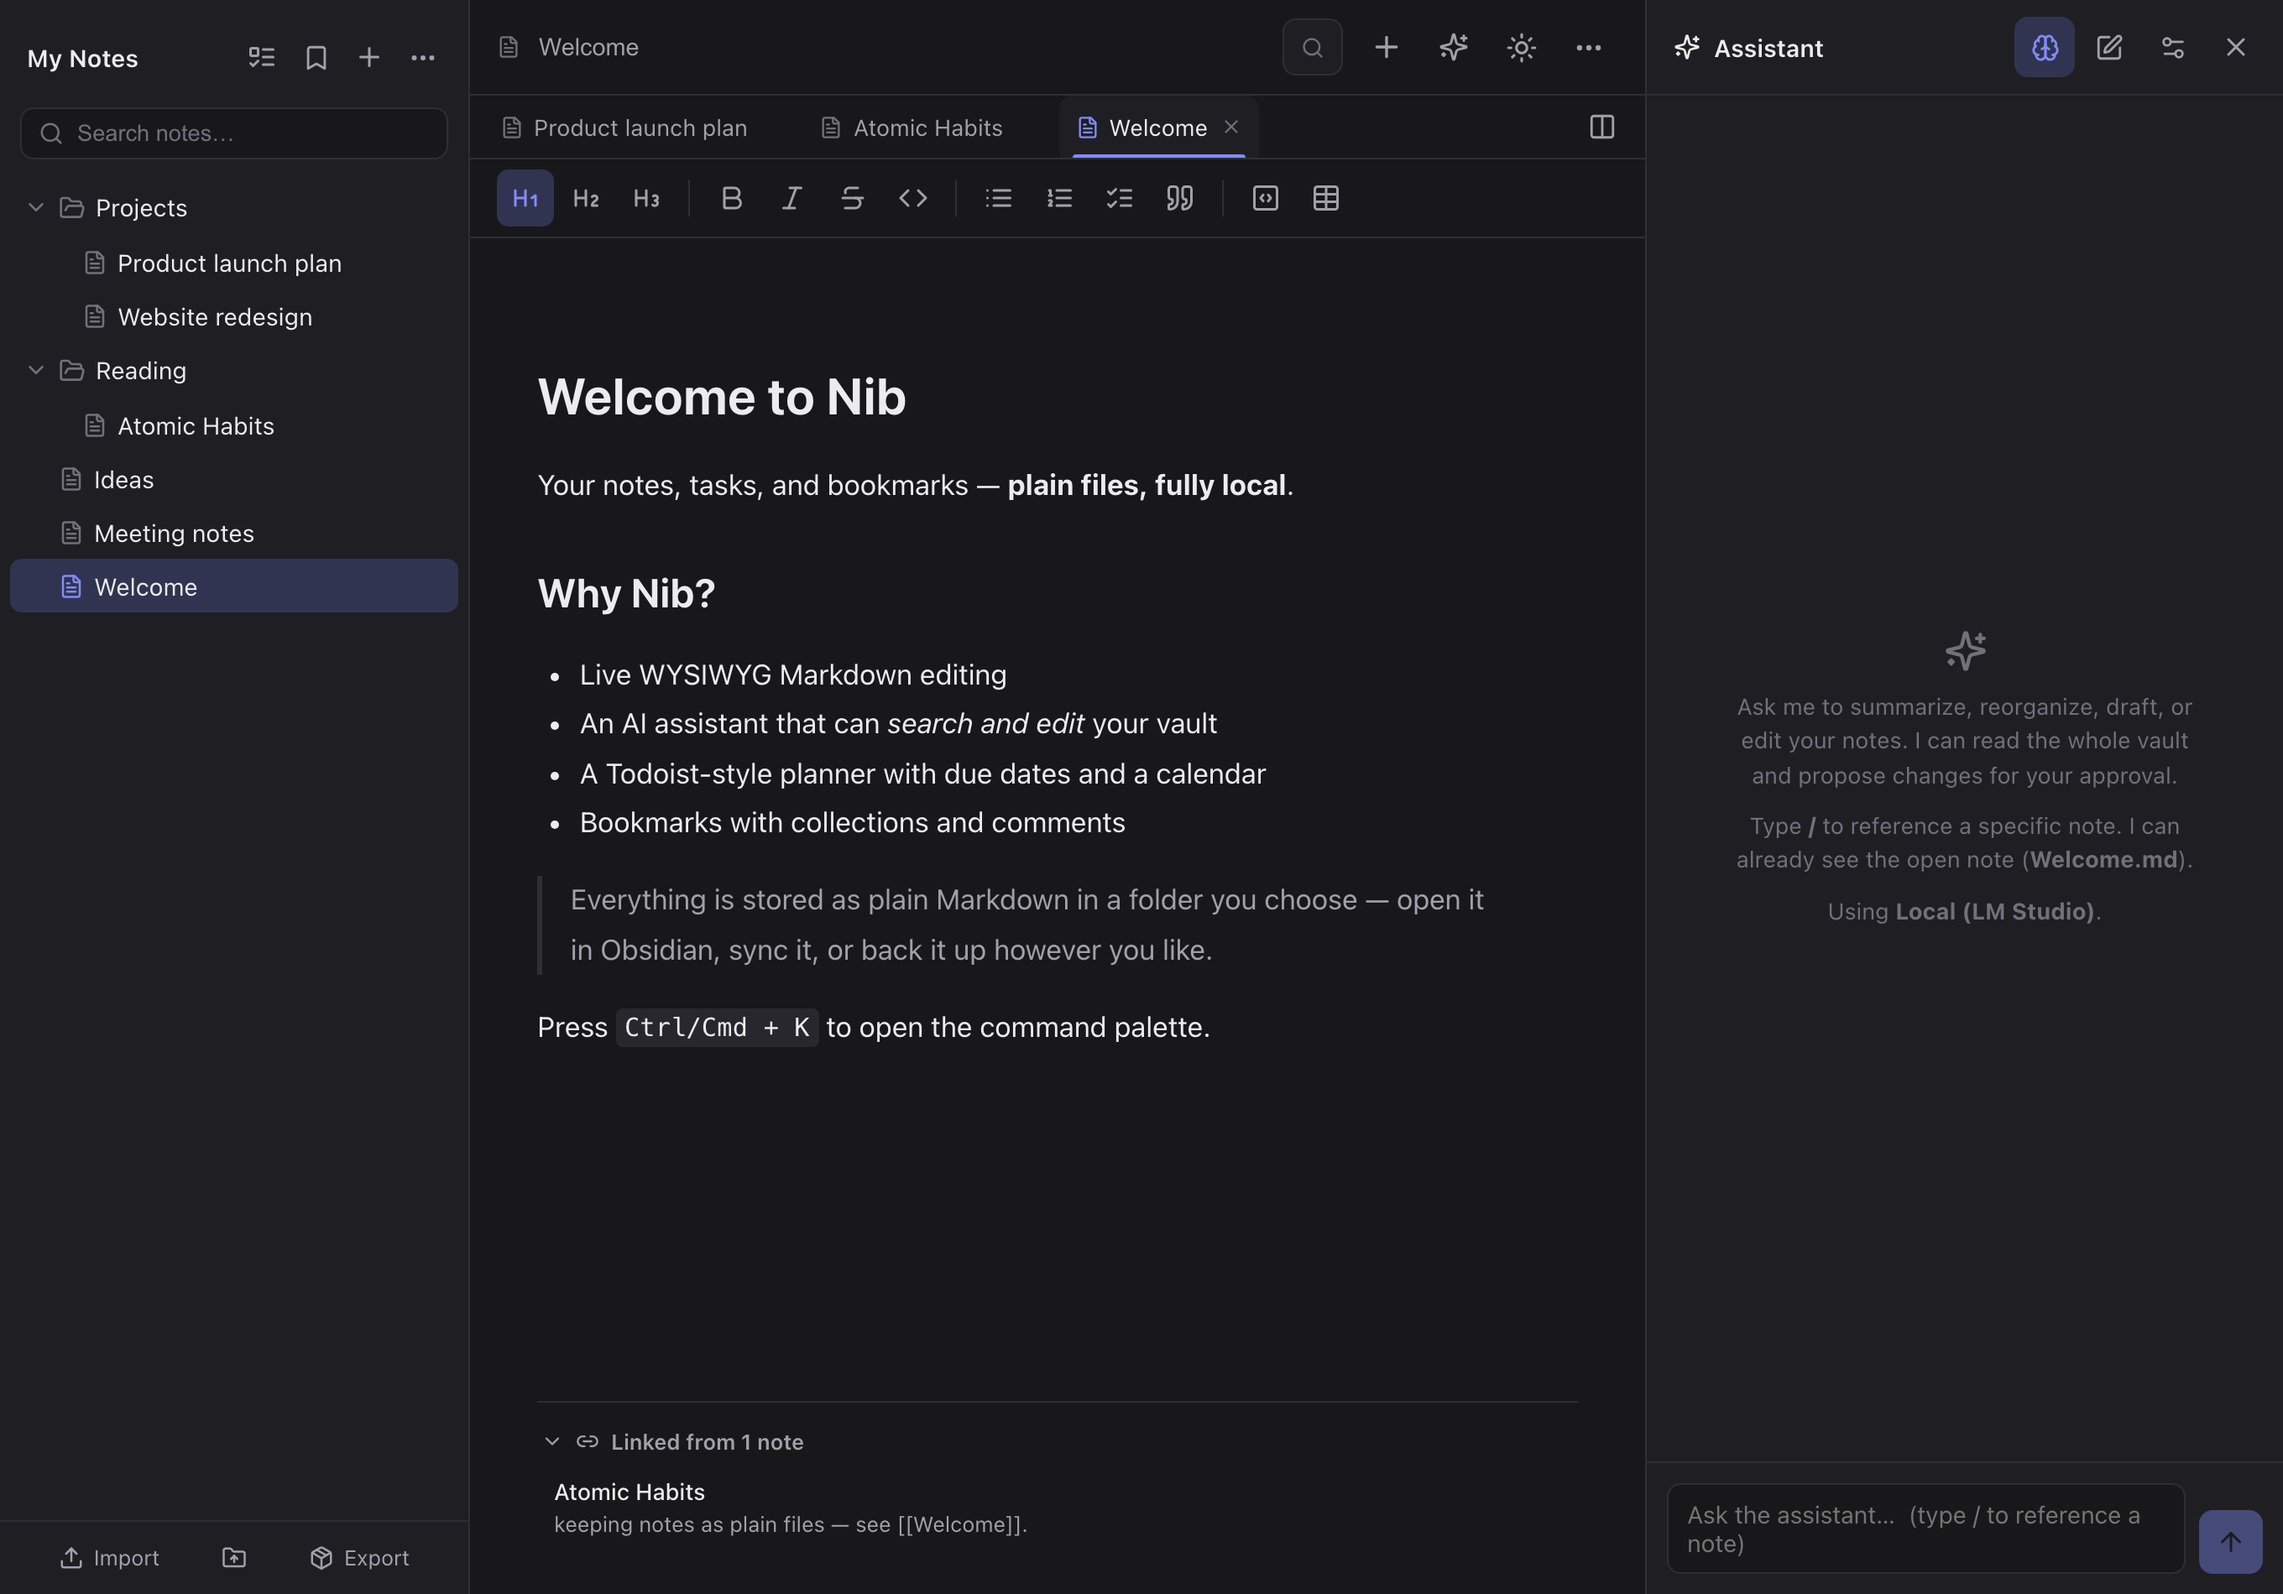
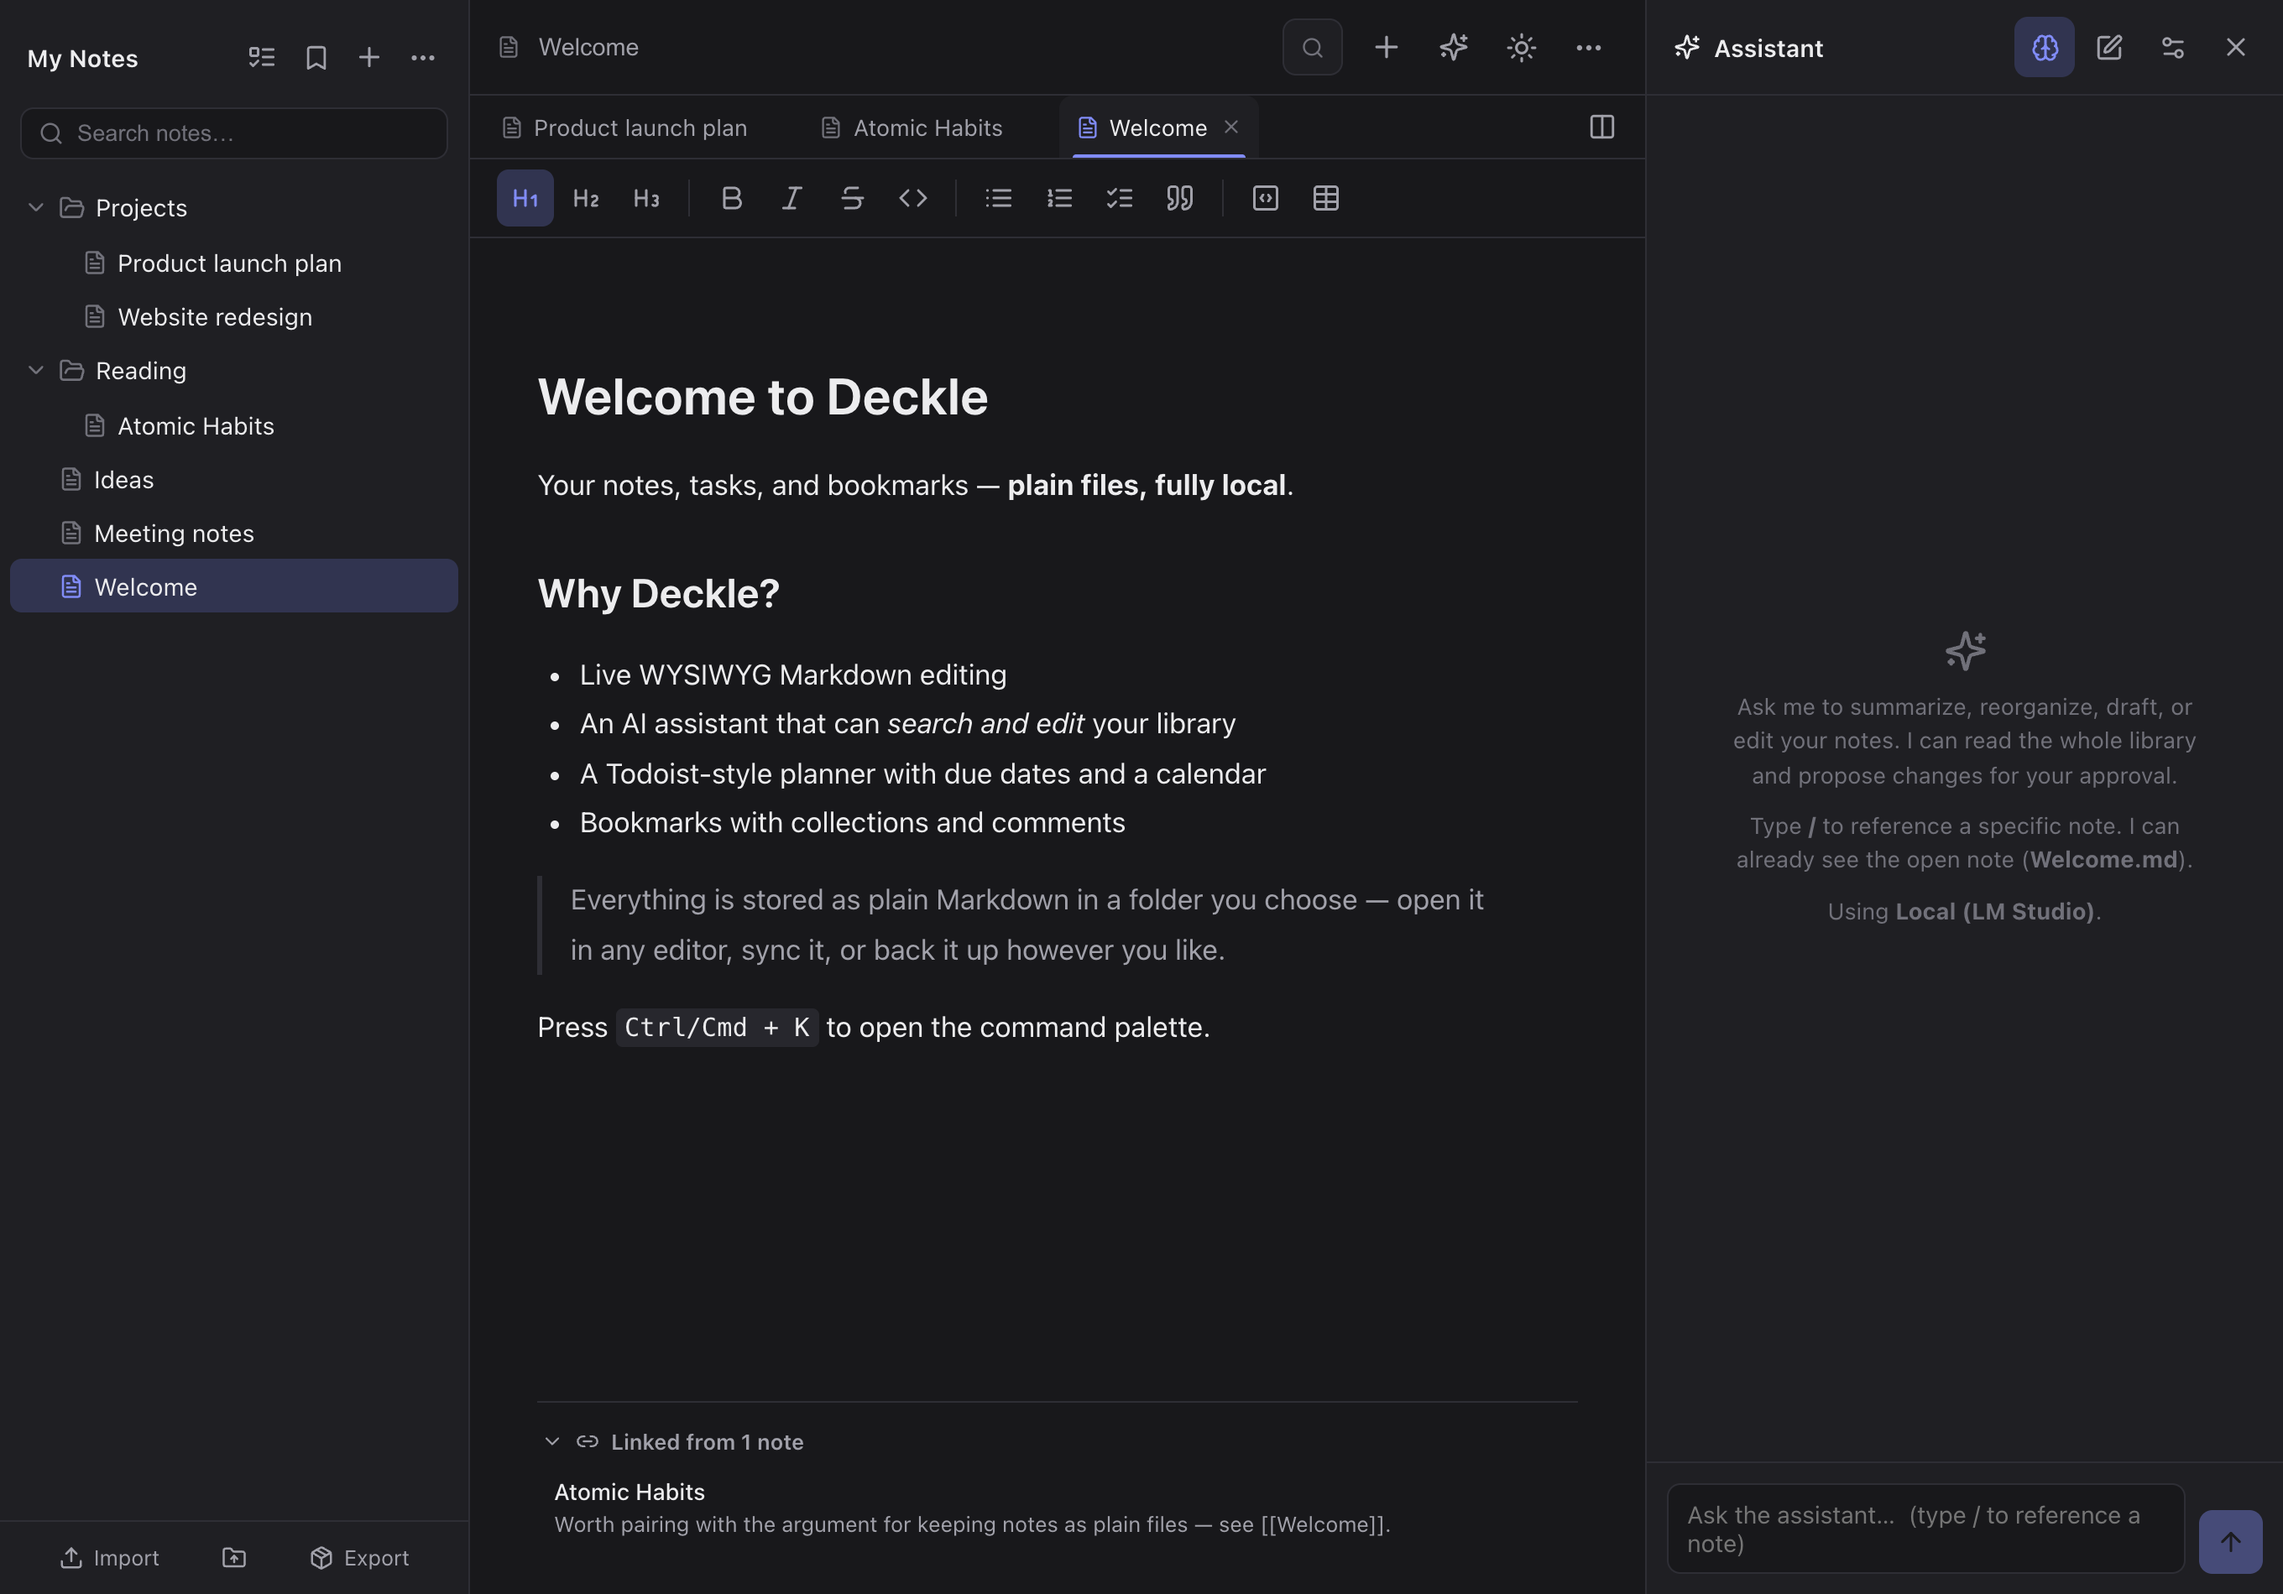
Draw Deckle a mark, and rebuild the screenshots around it
The favicon was still a pen nib — renaming the file did not redraw it, so
the app shipped a picture of the name it no longer has. The mark is now a
sheet of handmade paper with both sides left deckled: three bites down
the right, one long swell up the left. The uneven count is deliberate.
Matched lobes read as a machined spool, and fine teeth blur into a plain
square at 16px, so the teeth are few and deep instead. Checked at 16, 24,
40 and 110px, light and dark.

The screenshots showed "Welcome to Nib", "your vault" and Obsidian, since
the chrome is unbranded and all the naming lived in the demo content. That
content existed only in a library on one machine, which had already gone —
so the shots could not be retaken, only rebuilt.

So they are reproducible now. make-demo-library.mjs writes the notes,
tasks and bookmarks, with every date relative to today so the planner and
the calendar always look current, and capture.mjs drives a real browser
through the five states. It shoots against the server library backend
because the disk backend opens a native folder picker no script can drive.

Three things the captures needed that were not obvious:

- Park the cursor in a corner before each shot. Tree rows grow rename and
  delete icons on hover, and the cursor sits wherever the last click left
  it.
- Close the side panel with its own close button. Clicking the sidebar's
  Tasks icon only switches the panel back to the tasks tab, leaving it
  open behind the command palette.
[…]

diff --git a/src/components/LibraryGate.tsx b/src/components/LibraryGate.tsx
@@ -32,9 +32,10 @@ interface Props {
 }
 
 /**
- * The deckle, inlined so it takes the palette's ink through `currentColor`.
- * `public/deckle.svg` stays as it is — it is the favicon, and a favicon has no
- * document to inherit a colour from.
+ * The mark: a sheet of handmade paper whose right edge was never trimmed — a
+ * deckle edge. Inlined so it takes the palette's ink through `currentColor`.
+ * `public/deckle.svg` carries the same path with the accent hard-coded, because
+ * a favicon has no document to inherit a colour from; keep the two in step.
  */
 function DeckleMark({ size = 40 }: { size?: number }) {
   return (
@@ -46,10 +47,7 @@ function DeckleMark({ size = 40 }: { size?: number }) {
       fill="currentColor"
       aria-hidden="true"
     >
-      <path
-        fillRule="evenodd"
-        d="M12 1.5 17.6 7.2 12.7 20.4 12 22.6 11.3 20.4 6.4 7.2Z M12 5a1.7 1.7 0 1 0 0 3.4 1.7 1.7 0 1 0 0-3.4Z M11.45 9.4 12.55 9.4 12.15 18.8 11.85 18.8Z"
-      />
+      <path d="M4.6 2.5 L19.4 2.5 Q21.3 5.6 19.2 8.8 Q17.4 12 19.5 15.2 Q21.2 18.3 19.2 21.5 L4.6 21.5 Q2.6 17.2 4.9 12.8 Q6.6 7.5 4.6 2.5 Z" />
     </svg>
   )
 }
